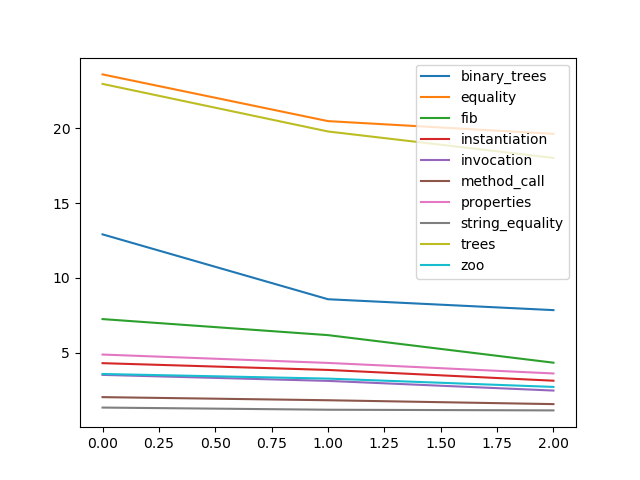
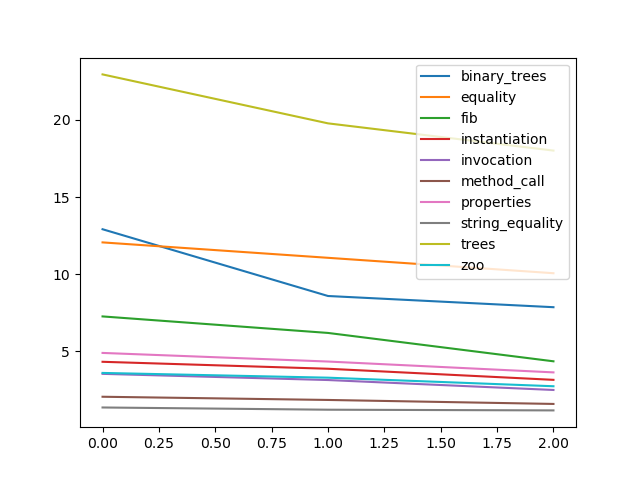
Throw together some fancy graphs n stuff
Note: The first 3 equality benchmark results are completely fake, pls
don't sue me I just wanted to make the graph work nicely

diff --git a/generate_graph.py b/generate_graph.py
@@ -1,29 +1,58 @@
 import matplotlib.pyplot as plt
 import csv
 import glob 
+import numpy as np
 
 legend = []
+all_gains = []
 for file in glob.glob("./results/hyperfine/*/*.csv"):
     dates = []
     means = []
+    gains = []
     name = file.split("/")[-2]
     with open(file) as csv_file:
         reader = csv.DictReader(csv_file)
         last_date = None
+        last_mean = None
         for row in reader:
             means.append(float(row['mean']))
+
+            if last_mean != None:
+                percent_gain = 100 * (last_mean - float(row['mean'])) / last_mean
+                gains.append(percent_gain)
+            
             if int(row['date']) == last_date:
                 dates.append(last_date + 0.1)
             else:
                 dates.append(int(row['date']))
 
             last_date = int(row['date'])
+            last_mean = float(row['mean'])
     print(f"Plotting {name} | {dates} {means}")
     # plt.plot(dates, means)
     plt.plot(means)
     legend.append(name)
+    all_gains.append([name, gains])
 
 print("Saving plot")
 plt.legend(legend)
 #plt.show()
 plt.savefig("benchmarks.png")
+plt.clf()
+
+plt.figure(figsize=(10,50))
+ind = np.arange(len(dates)-1, step=1)
+plots = []
+names = []
+for i, (name, gains) in enumerate(all_gains):
+    print(f"Plotting gains {name} | {gains}")
+    #p = plt.bar(ind, gains)
+
+    plt.subplot(10, 1, i+1)
+    plt.title(name)
+    plt.ylim(-50,50)
+    plt.xticks(ind, dates)
+    p = plt.bar(ind, gains, width=0.1)
+    plots.append(p[0])
+
+plt.savefig("gains.png")
